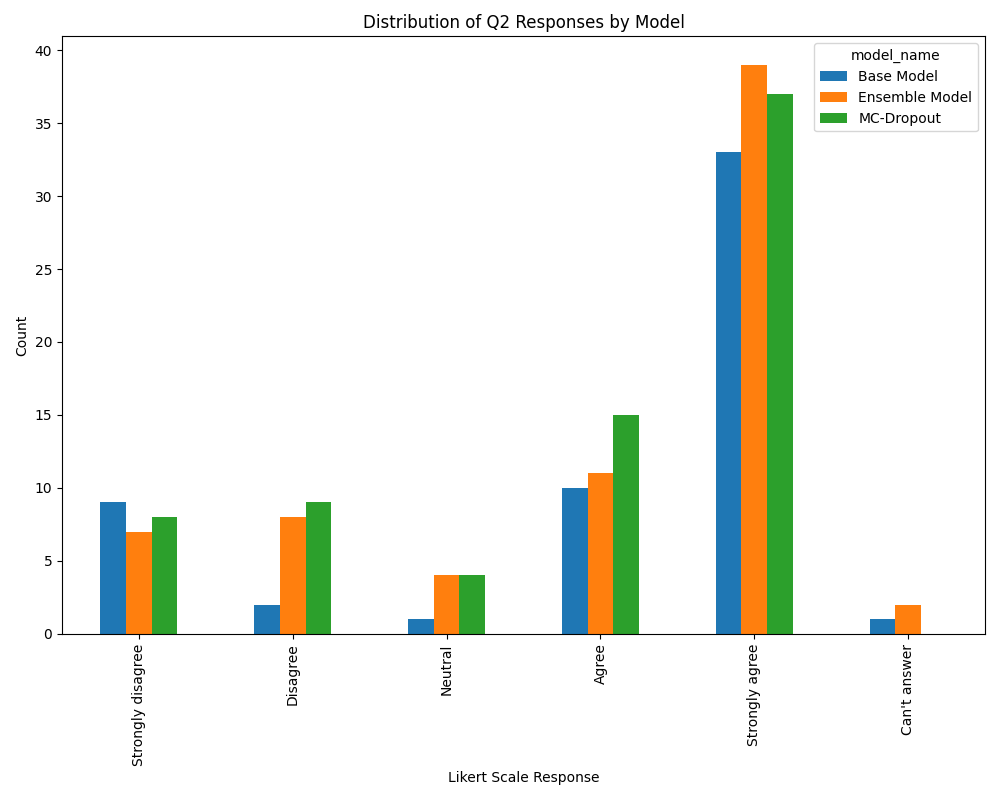
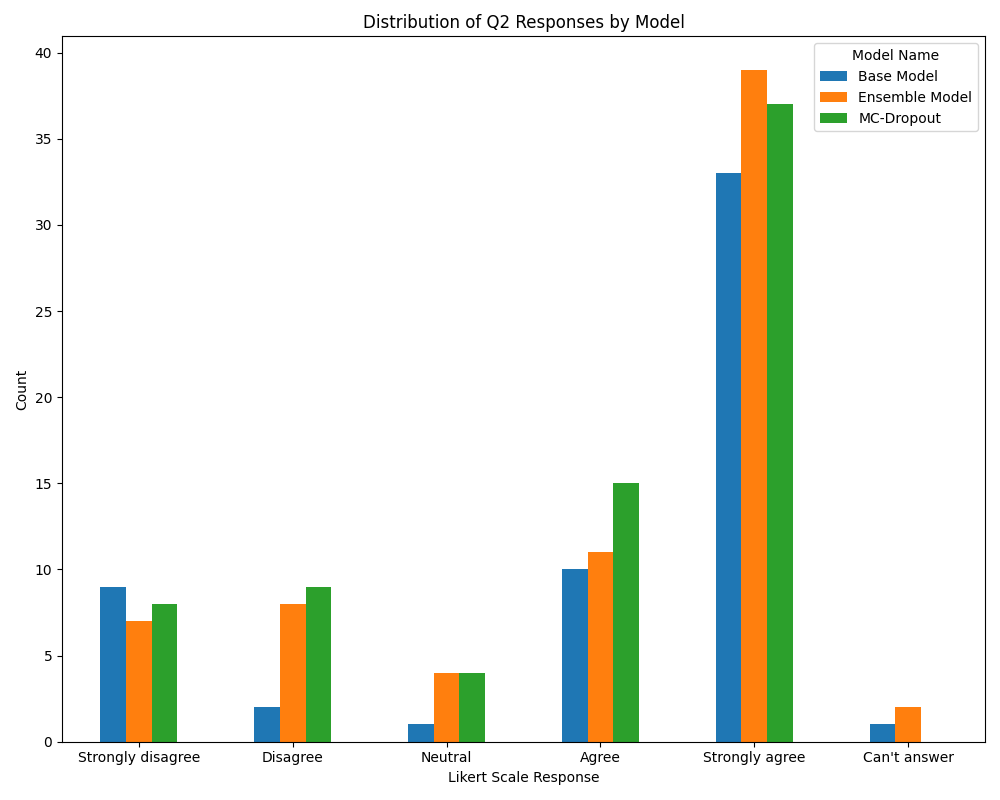
All data used for symposium

diff --git a/data_analysis/visualization_results.py b/data_analysis/visualization_results.py
@@ -20,10 +20,13 @@ def load_data(db_path):
 
 data = load_data(DB_PATH)
 
-# 1. Bar Chart: Average Confidence per Model with Error Bars
+# Define feedback columns
+feedback_cols = ["q1_answer", "q2_answer", "q3_answer", "q4_answer", "q5_answer"]
+
+# 1. Bar Chart: Average Confidence per Model with Standard Error Bars
 def plot_average_confidence_chart(df):
     avg_confidence = df.groupby("model_name")["confidence"].mean()
-    conf_intervals = df.groupby("model_name")["confidence"].sem() * 1.96
+    conf_intervals = df.groupby("model_name")["confidence"].sem()  # No multiplier, plain SEM
 
     fig, ax = plt.subplots(figsize=(8, 6))
     bars = ax.bar(avg_confidence.index, avg_confidence, yerr=conf_intervals, capsize=5, color='skyblue', edgecolor='black')
@@ -32,49 +35,66 @@ def plot_average_confidence_chart(df):
     for bar, value in zip(bars, avg_confidence):
         ax.text(bar.get_x() + bar.get_width() / 2, bar.get_height() / 2, f"{value:.2f}", ha='center', va='center', fontsize=10, color='black')
 
-    ax.set_title("Average Confidence per Model with Error Bars")
-    ax.set_ylabel("Average Confidence")
-    ax.set_xlabel("Model")
-    ax.set_xticks(range(len(avg_confidence.index)))
-    ax.set_xticklabels(avg_confidence.index, rotation=0)
+    ax.set_title("Average Confidence per Model with SE Bars")
+    ax.set_ylabel("Average Confidence (%)")
+    # ax.set_xlabel("Model")
+    ax.set_ylim(0, 100)  # Ensure y-axis goes up to 100
     plt.tight_layout()
     plt.savefig(os.path.join(OUTPUT_DIR, "confidence_per_model.png"))
     plt.close()
 
 plot_average_confidence_chart(data)
 
-# 2. ANOVA Test for Feedback Answers
+# 2. Bar Chart: Accuracy per Model (Ordered by Accuracy)
+def plot_accuracy_per_model(df):
+    # Calculate accuracy for each model
+    accuracies = df.groupby("model_name").apply(lambda x: (x["intended_digit"] == x["predicted_digit"]).mean())
+    
+    # Sort models by accuracy (descending order)
+    accuracies = accuracies.sort_values(ascending=False)
+
+    # Create the plot
+    fig, ax = plt.subplots(figsize=(8, 6))
+    bars = ax.bar(accuracies.index, accuracies * 100, capsize=5, color='limegreen', edgecolor='black')
+
+    # Annotate each bar with its value inside the bar
+    for bar, value in zip(bars, accuracies * 100):
+        ax.text(bar.get_x() + bar.get_width() / 2, bar.get_height() / 2, f"{value:.1f}%", ha='center', va='center', fontsize=10, color='black')
+
+    ax.set_title("Accuracy per Model")
+    ax.set_ylabel("Accuracy (%)")
+    # ax.set_xlabel("Model")
+    ax.set_ylim(0, 100)  # Ensure y-axis goes up to 100 for consistency
+    plt.tight_layout()
+    plt.savefig(os.path.join(OUTPUT_DIR, "accuracy_per_model_ordered.png"))
+    plt.close()
+
+plot_accuracy_per_model(data)
+
+# 3. ANOVA Test for Feedback Answers
 def calculate_anova_feedback(df):
-    feedback_cols = ["q1_answer", "q2_answer", "q3_answer", "q4_answer", "q5_answer"]
     likert_mapping = {
         "Strongly disagree": 1,
         "Disagree": 2,
         "Neutral": 3,
         "Agree": 4,
         "Strongly agree": 5,
-        "Can't answer": None
+        "Can't answer": 6  # Include Can't answer as its own category
     }
 
     with open(os.path.join(OUTPUT_DIR, "anova_results.txt"), "w") as f:
         for col in feedback_cols:
-            # Map Likert responses to numerical values
             df[f"{col}_numeric"] = df[col].map(likert_mapping)
 
-            # Prepare data for ANOVA
             grouped_data = [df[df["model_name"] == model][f"{col}_numeric"].dropna() for model in df["model_name"].unique()]
-
-            # Perform ANOVA
             f_stat, p_val = f_oneway(*grouped_data)
 
-            # Save ANOVA results
-            f.write(f"ANOVA Results for Distribution of Q{feedback_cols.index(col)+1} Responses:\n")
+            f.write(f"ANOVA Results for Distribution of Q{feedback_cols.index(col) + 1} Responses:\n")
             f.write(f"F-statistic: {f_stat:.2f}\n")
             f.write(f"P-value: {p_val:.3f}\n\n")
 
-            # Pairwise comparisons with Bonferroni correction
             model_names = df["model_name"].unique()
-            pairwise_pvals = []
-            model_pairs = []
+            pairwise_pvals, model_pairs = [], []
             for i, model1 in enumerate(model_names):
                 for j, model2 in enumerate(model_names):
                     if i < j:
@@ -85,82 +105,110 @@ def calculate_anova_feedback(df):
                         model_pairs.append((model1, model2))
 
             _, corrected_pvals, _, _ = multipletests(pairwise_pvals, method="bonferroni")
-            f.write(f"Pairwise Comparisons for Q{feedback_cols.index(col)+1}:\n")
+            f.write(f"Pairwise Comparisons for Q{feedback_cols.index(col) + 1}:\n")
             for (model1, model2), pval in zip(model_pairs, corrected_pvals):
                 f.write(f"  {model1} vs {model2}: Corrected P-value = {pval:.3f}\n")
             f.write("\n")
 
-        print("ANOVA results saved to anova_results.txt")
-
 calculate_anova_feedback(data)
-
-# 3. Stacked Bar Chart: Likert Responses by Model
-def plot_likert_responses(df):
-    feedback_cols = ["q1_answer", "q2_answer", "q3_answer", "q4_answer", "q5_answer"]
-    response_order = ["Strongly disagree", "Disagree", "Neutral", "Agree", "Strongly agree", "Can't answer"]
-    for col in feedback_cols:
-        likert_model_counts = (
-            df.groupby(["model_name", col]).size().unstack(level=0, fill_value=0).reindex(response_order)
-        )
-        likert_model_counts.plot(kind="bar", figsize=(10, 8), title=f"Distribution of Q{feedback_cols.index(col)+1} Responses by Model")
-        plt.ylabel("Count")
-        plt.xlabel("Likert Scale Response")
-        plt.tight_layout()
-        plt.savefig(os.path.join(OUTPUT_DIR, f"Q{feedback_cols.index(col)+1}_responses_distribution.png"))
-        plt.close()
-
-plot_likert_responses(data)
-
-# 4. Count Participants and Samples
-def count_participants_and_samples(df):
-    # Count unique participants
-    participants = df["subject_number"].nunique()
-
-    # Total samples
-    total_samples = df.shape[0]
-
-    # Print results
-    print(f"Total Participants: {participants}")
-    print(f"Total Samples: {total_samples}")
-
-count_participants_and_samples(data)
 
 # 5. Feedback Distributions Visualization
 def plot_feedback_distributions(df):
-    feedback_cols = ["q1_answer", "q2_answer", "q3_answer", "q4_answer", "q5_answer"]
     likert_mapping = {
         "Strongly disagree": 1,
         "Disagree": 2,
         "Neutral": 3,
         "Agree": 4,
         "Strongly agree": 5,
-        "Can't answer": 6  # Treat "Can't answer" as its own category
+        "Can't answer": 6
     }
 
     for col in feedback_cols:
         df[f"{col}_numeric"] = df[col].map(likert_mapping)
         sns.boxplot(x="model_name", y=f"{col}_numeric", data=df)
-        plt.title(f"Feedback Distribution for Q{feedback_cols.index(col)+1}")
+        plt.title(f"Feedback Distribution for Q{feedback_cols.index(col) + 1}")
         plt.ylabel("Likert Scale (1-6)")
         plt.xlabel("Model")
         plt.tight_layout()
-        plt.savefig(os.path.join(OUTPUT_DIR, f"Q{feedback_cols.index(col)+1}_feedback_distribution.png"))
+        plt.savefig(os.path.join(OUTPUT_DIR, f"Q{feedback_cols.index(col) + 1}_feedback_distribution.png"))
         plt.close()
 
-plot_feedback_distributions(data)
+# plot_feedback_distributions(data)
 
-# 6. Check variability and can't answer mapping
-def check_var():
+"""
+# Print the number of times each model was used
+model_usage_counts = data["model_name"].value_counts()
+print("Number of times each model was used:")
+for model, count in model_usage_counts.items():
+    print(f"  {model}: {count}")
+"""
+
+# 4. Stacked Bar Chart: Likert Responses by Model
+def plot_likert_responses(df):
+    response_order = ["Strongly disagree", "Disagree", "Neutral", "Agree", "Strongly agree", "Can't answer"]
+    for col in feedback_cols:
+        likert_model_counts = (
+            df.groupby(["model_name", col]).size().unstack(level=0, fill_value=0).reindex(response_order)
+        )
+        ax = likert_model_counts.plot(kind="bar", figsize=(10, 8), title=f"Distribution of Q{feedback_cols.index(col) + 1} Responses by Model")
+        ax.set_ylabel("Count")
+        ax.set_xlabel("Likert Scale Response")
+        ax.legend(title="Model Name")
+
+        # Set horizontal x-axis labels
+        ax.set_xticklabels(ax.get_xticklabels(), rotation=0)
+
+        plt.tight_layout()
+        plt.savefig(os.path.join(OUTPUT_DIR, f"Q{feedback_cols.index(col) + 1}_responses_distribution.png"))
+        plt.close()
+
+plot_likert_responses(data)
+
+# 6. Stacked Bar Charts: Compare Base Model with MC-Dropout + Ensemble Average for Each Question (Normalized)
+def plot_combined_likert_responses_per_question_normalized(df):
     feedback_cols = ["q1_answer", "q2_answer", "q3_answer", "q4_answer", "q5_answer"]
+    response_order = ["Strongly disagree", "Disagree", "Neutral", "Agree", "Strongly agree", "Can't answer"]
 
     for col in feedback_cols:
-        print(f"Question {col}:")
-        for model in data["model_name"].unique():
-            group_data = data[data["model_name"] == model][f"{col}_numeric"]
-            print(f"  {model}: Mean = {group_data.mean():.2f}, Std = {group_data.std():.2f}")
+        # Group data by model and Likert responses
+        likert_model_counts = (
+            df.groupby(["model_name", col]).size().unstack(level=0, fill_value=0)
+        )
 
-    for col in feedback_cols:
-        print(f"{col} 'Can't answer' counts:")
-        print(data[data[col] == "Can't answer"]["model_name"].value_counts())
+        # Normalize the counts to proportions
+        likert_model_counts = likert_model_counts.div(likert_model_counts.sum(axis=0), axis=1)
 
-# check_var()
+        # Extract Base Model proportions
+        base_model_counts = likert_model_counts["Base Model"]
+
+        # Calculate the average proportions for MC-Dropout and Ensemble
+        combined_average_counts = (
+            likert_model_counts[["MC-Dropout", "Ensemble Model"]].mean(axis=1)
+        )
+
+        # Combine Base Model and Average into a new DataFrame
+        combined_counts = pd.DataFrame({
+            "Base Model": base_model_counts,
+            "MC-Dropout + Ensemble (Avg)": combined_average_counts
+        })
+
+        # Create the stacked bar plot
+        ax = combined_counts.reindex(response_order).plot(
+            kind="bar", figsize=(10, 8), color=["steelblue", "orange"], edgecolor="black"
+        )
+
+        # Update the title, labels, and legend
+        ax.set_title(f"Normalized Distribution of Q{feedback_cols.index(col) + 1} Responses by Model")
+        ax.set_ylabel("Proportion")
+        ax.set_xlabel("Likert Scale Response")
+        ax.legend(title="Model Name")
+
+        # Set horizontal x-axis labels
+        ax.set_xticklabels(ax.get_xticklabels(), rotation=0)
+
+        # Save the plot for this question
+        plt.tight_layout()
+        plt.savefig(os.path.join(OUTPUT_DIR, f"Q{feedback_cols.index(col) + 1}_combined_likert_responses_normalized.png"))
+        plt.close()
+
+plot_combined_likert_responses_per_question_normalized(data)
